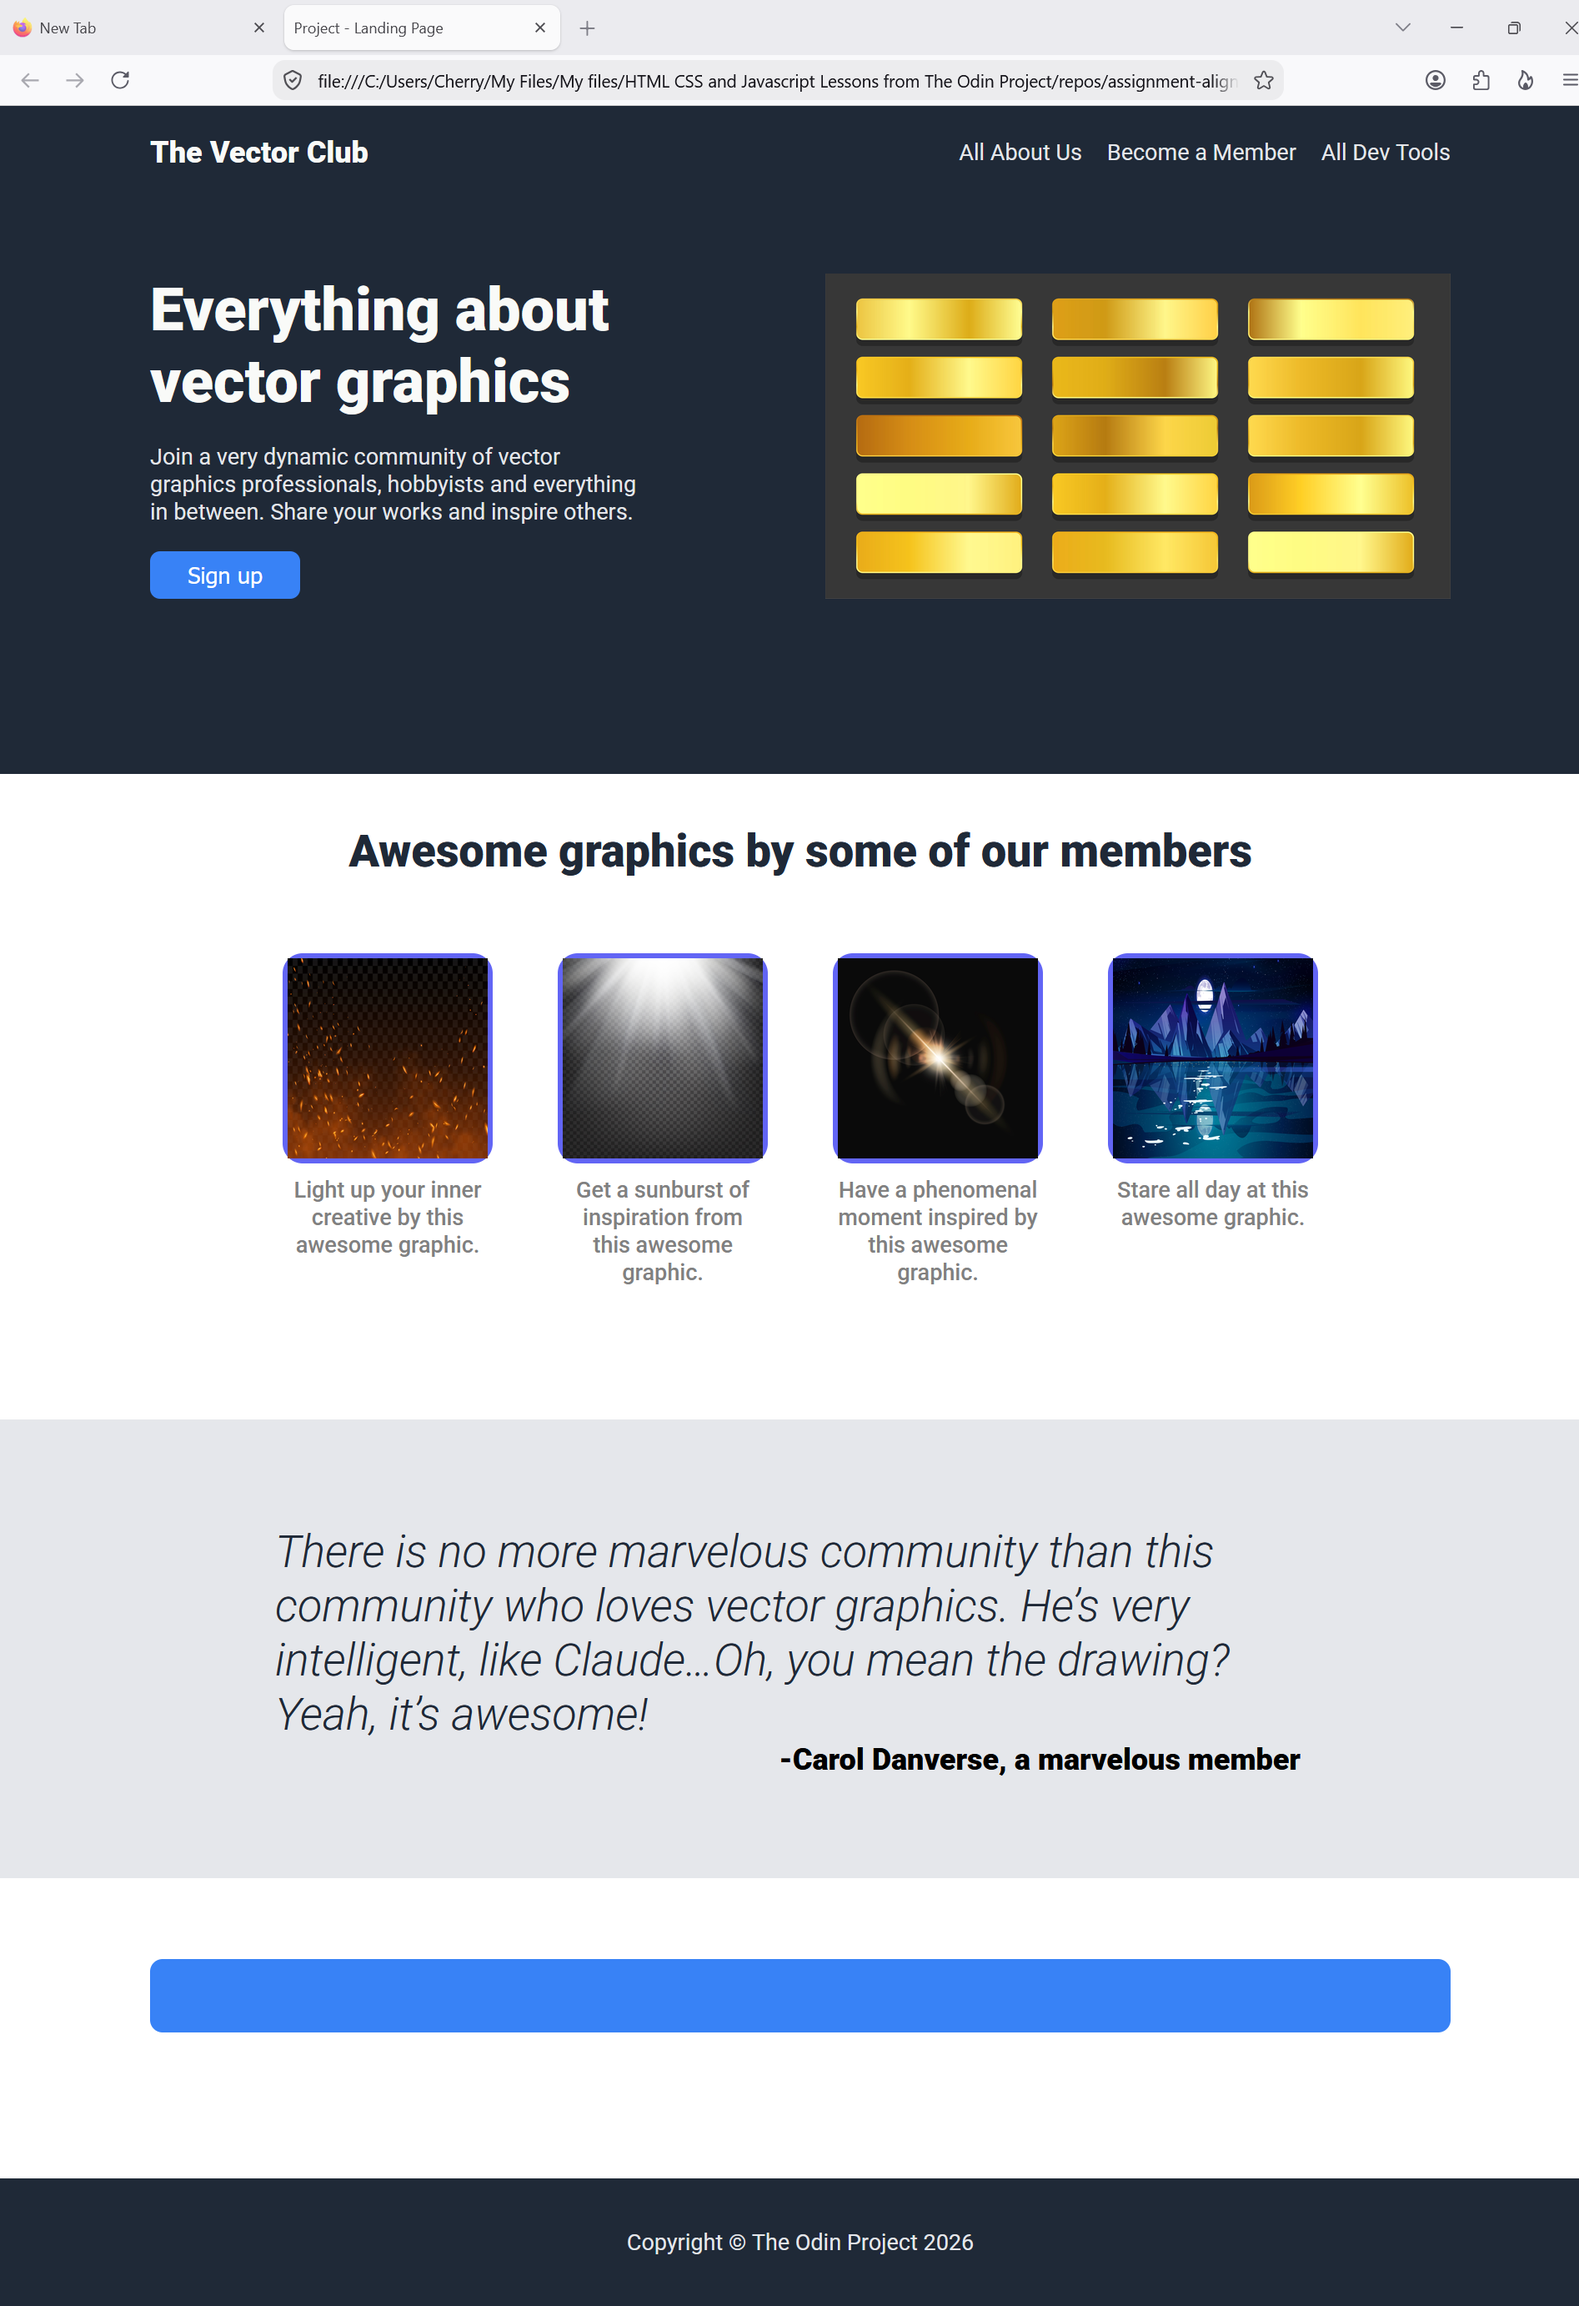
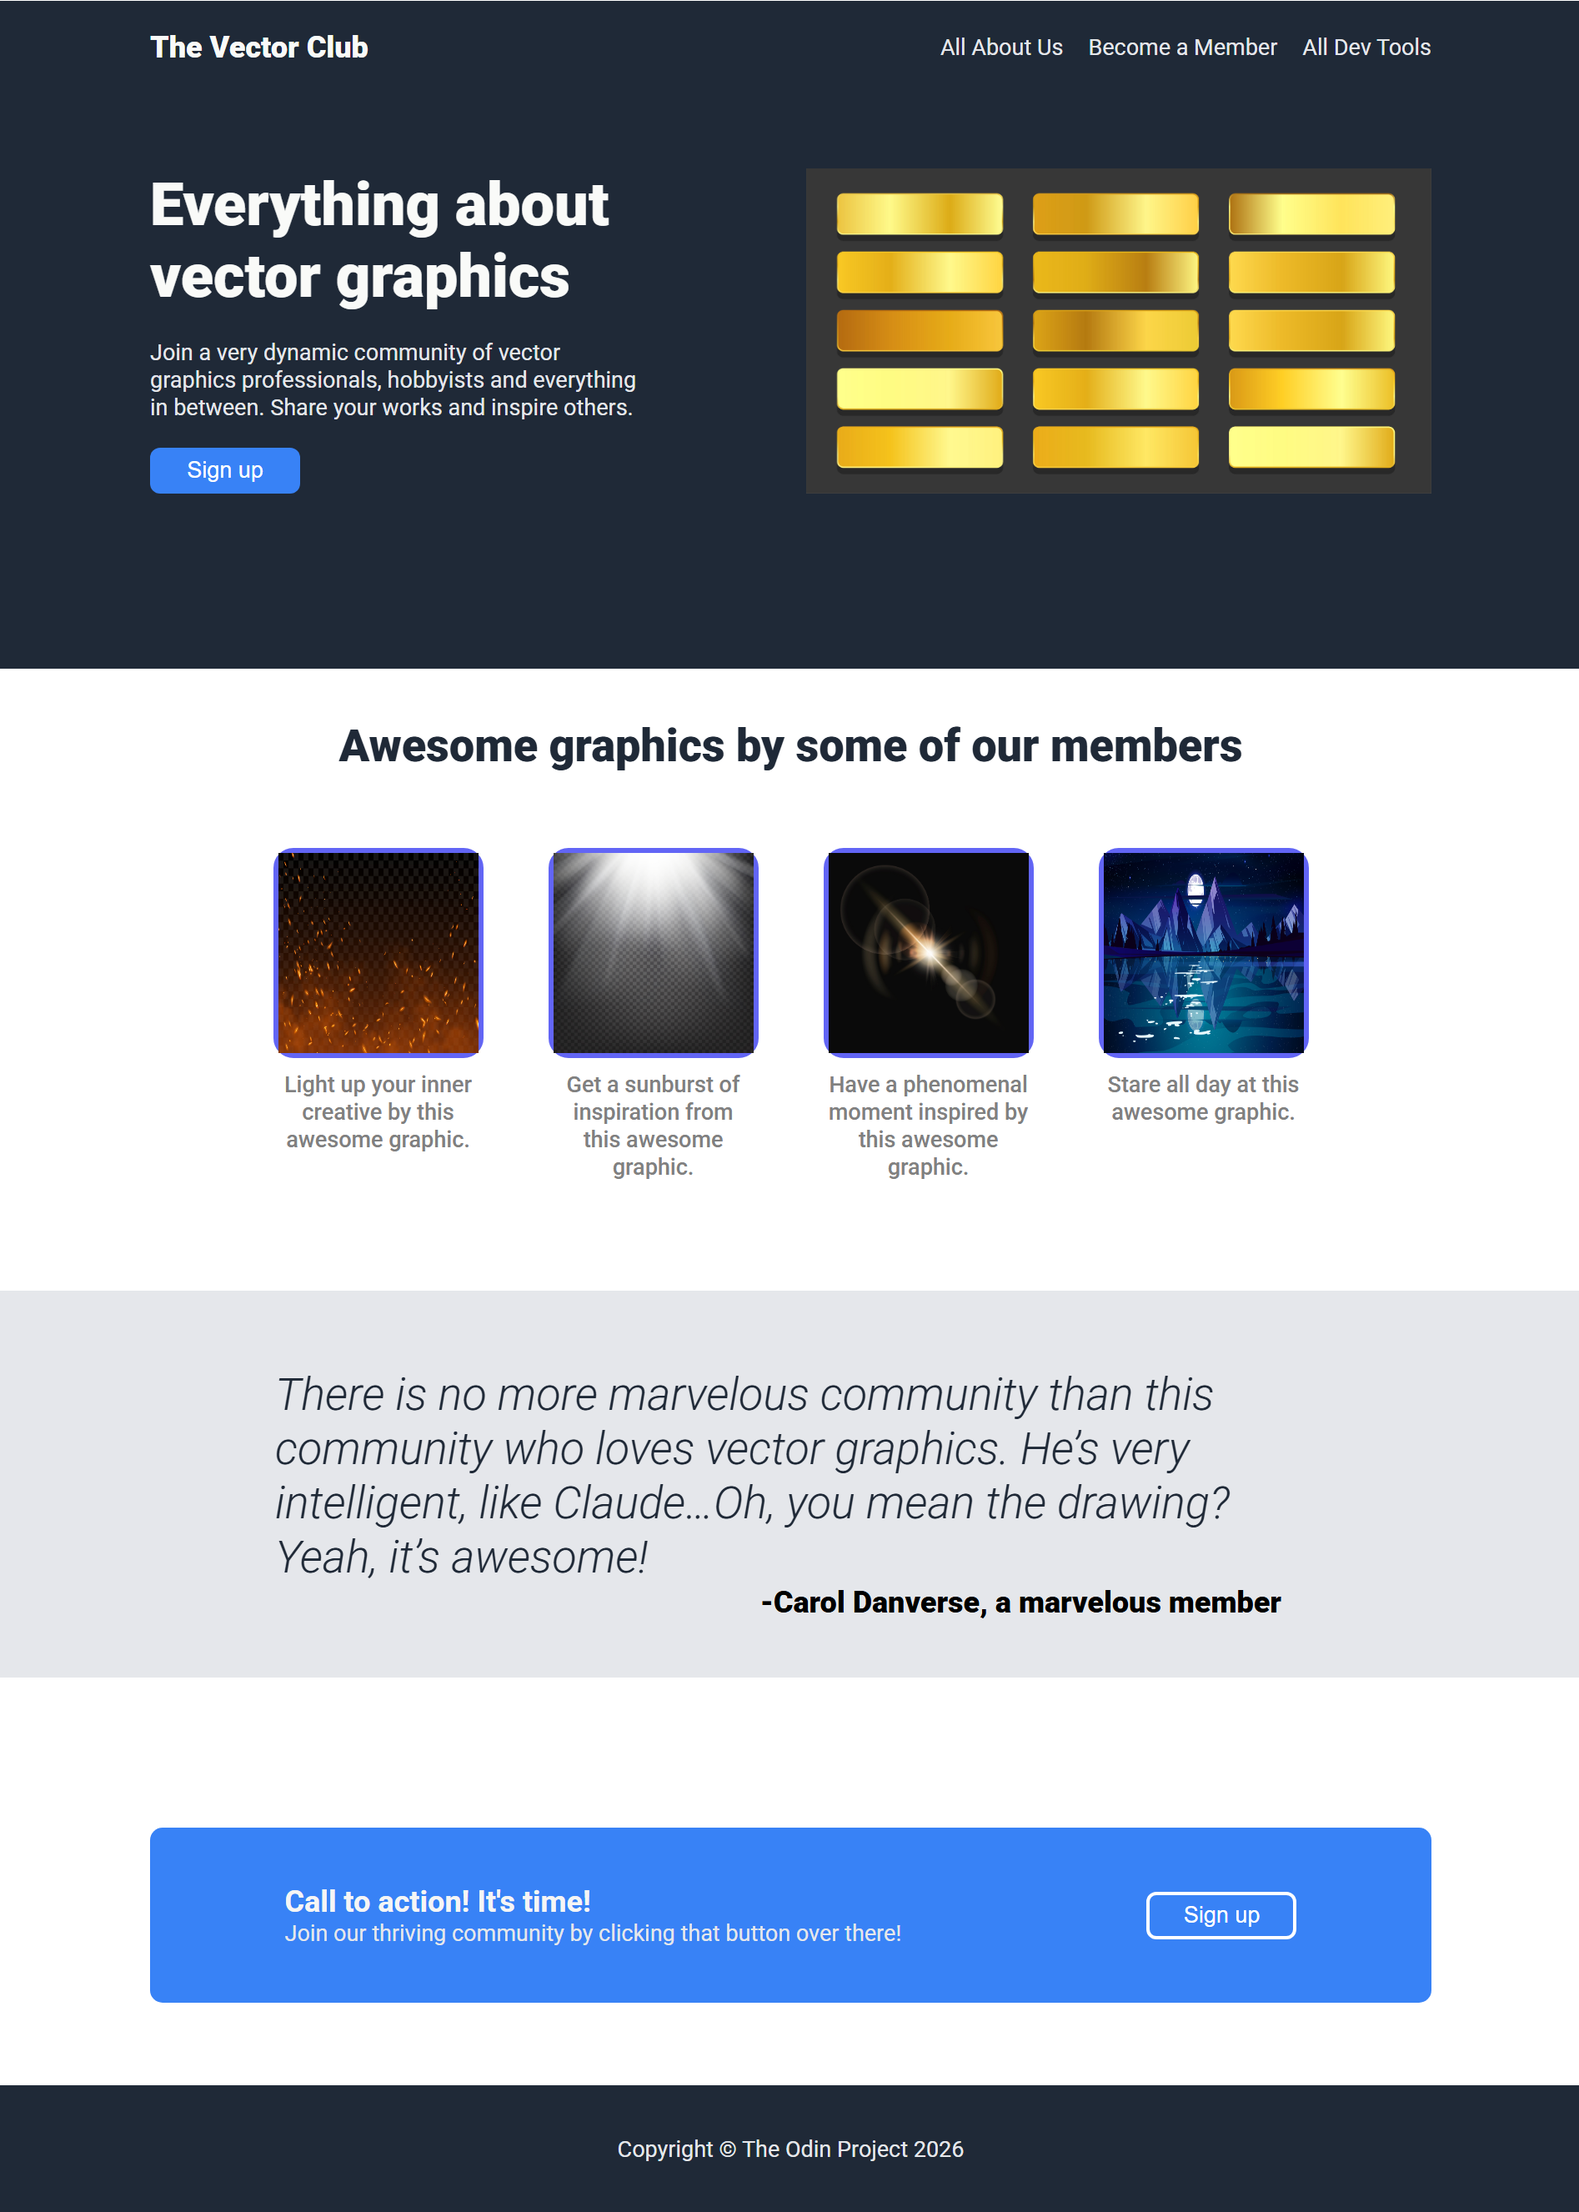
Updated the screenshot of outcome

diff --git a/README.md b/README.md
@@ -17,4 +17,5 @@ Stock images are free and taken from www.magnific.com. Credits:
 
 <a href="https://www.magnific.com/free-vector/night-landscape-with-lake-mountains-trees-coast-vector-cartoon-illustration-nature-scene-with-coniferous-forest-river-shore-rocks-moon-stars-dark-sky_20928412.htm">Image by upklyak on Magnific
 
-![alt text](image.png)
+![alt text](image-1.png)
+
